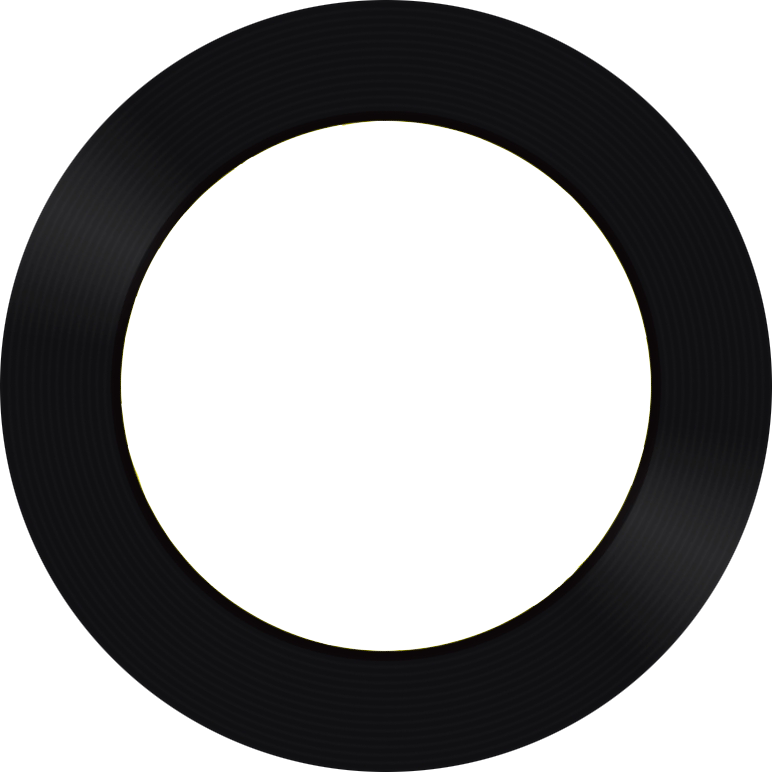
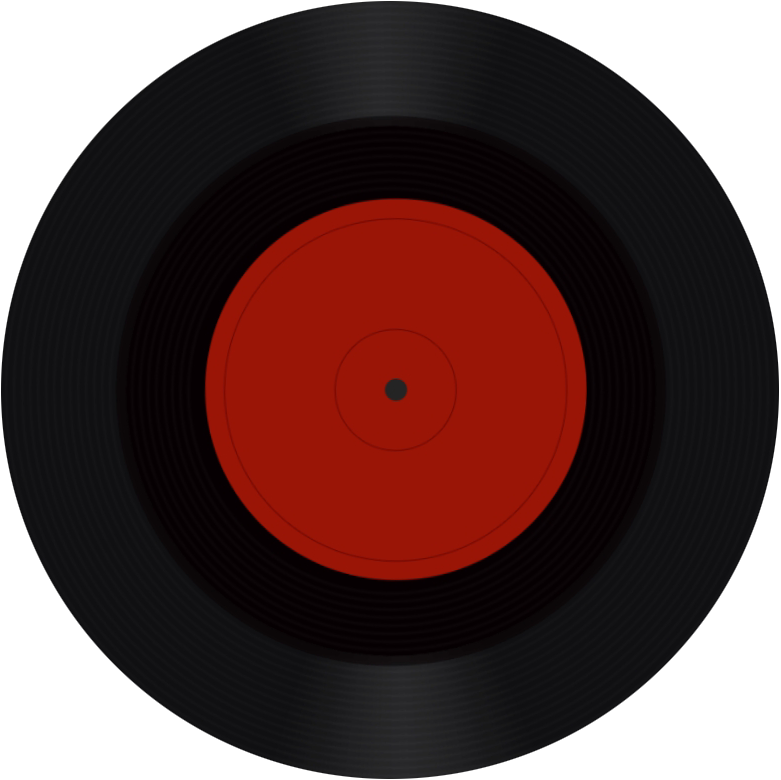
歌曲切换

diff --git a/src/components/Player/Player.js b/src/components/Player/Player.js
@@ -94,14 +94,12 @@ export default {
       }
       this.isDrag = false
     },
+    // 音量改变
     volumeChange() {
       this.$nextTick(() => {
         this.adoEl.volume = this.volume / 100
         // console.log('设置音量', this.volume);
-        this.$toast({
-          message: `音量: ${this.volume}%`,
-          className: "playerToast", duration: 500, position: "bottom",
-        });
+        this.toast(`音量: ${this.volume}%`)
         window.localStorage.setItem('music_volume', this.volume)
       })
     },
@@ -109,12 +107,39 @@ export default {
     togglePlayerImg() {
       this.playerImg = !this.playerImg
     },
+    // 切换播放状态
     togglePlay() {
       if (this.adoEl.paused) {
         this.adoEl.play()
       } else {
         this.adoEl.pause()
       }
+    },
+    // 提示未开发
+    clickSong() {
+      this.toast('未开发!')
+    },
+    // 上一曲
+    preSong() {
+      console.log('第几首:', this.playingIndex);
+      if (this.playingIndex > 0) {
+        this.$store.commit('changeSongId', String(this.playList[this.playingIndex - 1].id))
+      }
+      // todo: 如果是列表循环, 跳转到最后一首
+      if (this.playingIndex === 0) {
+        this.$store.commit('changeSongId', String(this.playList.slice(-1)[0].id))
+      }
+      this.toast('上一曲')
+    },
+    // 下一曲
+    nextSong() {
+      if (this.playingIndex < this.playList.length - 1) {
+        this.$store.commit('changeSongId', String(this.playList[this.playingIndex + 1].id))
+      }
+      if (this.playingIndex >= this.playList.length - 1) {
+        this.$store.commit('changeSongId', String(this.playList[0].id))
+      }
+      this.toast(`下一曲`)
     },
     audioCanplay() {
       this.adoReady = true
@@ -127,10 +152,7 @@ export default {
       this.playStatus = 'paused'
     },
     audioError() {
-      this.$toast({
-        message: `播放错误!`,
-        className: "playerToast", duration: 2000, position: "bottom",
-      });
+      this.toast('播放错误!', 2000)
     },
     audioWaiting() {
 
@@ -161,6 +183,13 @@ export default {
         // 分:秒格式
         return moment(time * 1000).format('mm:ss')
       }
+    },
+    // 提示
+    toast(msg, durationT = 300) {
+      this.$toast({
+        message: msg,
+        className: "playerToast", duration: durationT, position: "bottom",
+      });
     },
     // 歌曲id, 改变触发
     async songIdChange(newId) {
@@ -194,10 +223,7 @@ export default {
             this.$store.commit('setPlayList', playlist)
             this.$store.commit('setPlayingIndex', playlist.length - 1)
           } else {
-            this.$toast({
-              message: `歌曲信息请求错误, 无法保存到播放列表!`,
-              className: "playerToast", duration: 2000, position: "bottom",
-            });
+            this.toast(`歌曲信息请求错误, 无法保存到播放列表!`, 2000)
           }
         }
 
@@ -206,10 +232,7 @@ export default {
         if (songUrlData.code === 200) {
           url = songUrlData.data[0].url
         } else {
-          this.$toast({
-            message: `获取音乐url出错!`,
-            className: "playerToast", duration: 2000, position: "bottom",
-          });
+          this.toast(`获取音乐url出错!`, 2000)
         }
 
         this.songInfo = this.playList[this.playingIndex]
@@ -236,13 +259,10 @@ export default {
             this.$refs.diskImg.src = bgImage.src
           }
           bgImage.onerror = () => {
-            this.$toast({
-              message: `背景图加载错误!`,
-              className: "playerToast", duration: 2000, position: "bottom",
-            });
+            this.toast(`背景图加载错误!`, 2000)
             // 替换为默认背景
             this.$refs.bgInnerEle.style.backgroundImage = `url(${this.defaultBg})`
-            this.$refs.diskImg.src = this.defaultBg
+            // this.$refs.diskImg.src = this.defaultBg
           }
         })
         
@@ -263,6 +283,9 @@ export default {
       } else {
         this.needleEl.classList.remove('playing')
       }
+    },
+    currentTime(newV) {
+      // console.log('播放时间', newV);
     }
   }
 }

diff --git a/src/components/Player/Player.vue b/src/components/Player/Player.vue
@@ -48,11 +48,11 @@
                   <div class="disk-box" ref="disk"
                     :class="[playStatus === 'paused' ? 'paused' : 'playing', {'ready': adoReady}]"
                   >
-                    <img :src="defaultBg" ref="diskImg" alt="">
+                    <img ref="diskImg" alt="">
                   </div>
                 </div>
                 <!-- 收藏 下载 铃声 评论 更多 -->
-                <div class="song-bar">
+                <div class="song-bar" @click.stop="clickSong">
                   <!-- 空心 -->
                   <i class="iconfont icon-icon-test"></i>
                   <!-- 实心 -->
@@ -76,6 +76,7 @@
                     @input="volumeChange"
                   />
                 </div>
+
               </div>
             </transition-group>
           </div>
@@ -101,12 +102,12 @@
           <!-- 歌曲控制 -->
           <div class="control-bar">
             <i class="iconfont icon-xunhuan"></i>
-            <i class="iconfont icon-shangyishou"></i>
+            <i class="iconfont icon-shangyishou" @click="preSong"></i>
             <div class="status" @click="togglePlay">
               <i class="iconfont icon-bofang2" v-if="playStatus==='paused'"></i>
               <i class="iconfont icon-weibiaoti519" v-else></i>
             </div>
-            <i class="iconfont icon-shangyishoushangyige"></i>
+            <i class="iconfont icon-shangyishoushangyige" @click="nextSong"></i>
             <i class="iconfont icon-PlayListbofangliebiao" @click="showPlayList"></i>
           </div>
         </div>

diff --git a/src/components/Player/Player.scss b/src/components/Player/Player.scss
@@ -303,6 +303,10 @@
           border-radius: 50%;
           border: 1px solid #fff;
           padding: .12rem;
+          transition: all .1s;
+          &:active {
+            box-shadow: 0 0 .03rem #fff;
+          }
           .iconfont {
             font-size: .24rem;
             // width: .24rem;
@@ -311,6 +315,10 @@
         }
         .iconfont {
           font-size: .26rem;
+          transition: all .1s;
+          &:active {
+            text-shadow: 0 0 .03rem #fff;
+          }
         }
         .icon-bofang2 {
           color: #fff;

diff --git a/src/components/PlayerPlayList.vue b/src/components/PlayerPlayList.vue
@@ -73,10 +73,15 @@ export default {
     },
   },
   watch: {
-    showPlayList(newV) {
-      if (newV) {
-        this.$refs.listBox.scrollTop = this.$refs.song[this.playingIndex].offsetTop
-      }
+    showPlayList: {
+      handler: function (newV) {
+        if (newV) {
+          this.$nextTick(() => {
+            this.$refs.listBox.scrollTop = this.$refs.song[this.playingIndex].offsetTop
+          })
+        }
+      },
+      immediate: true
     }
   }
 }
